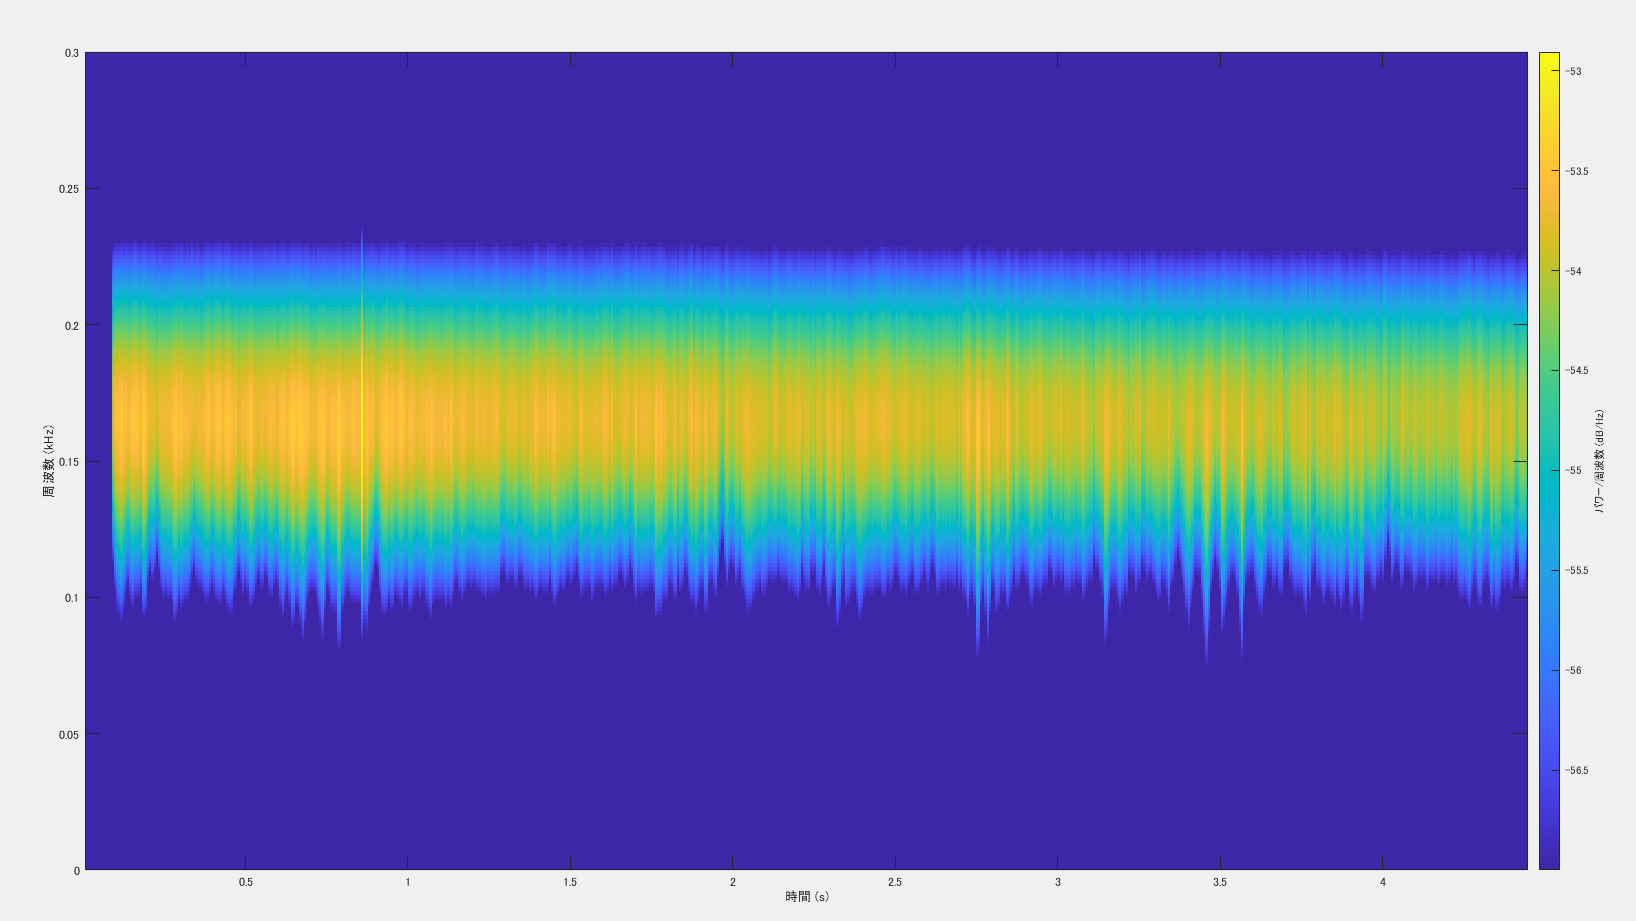
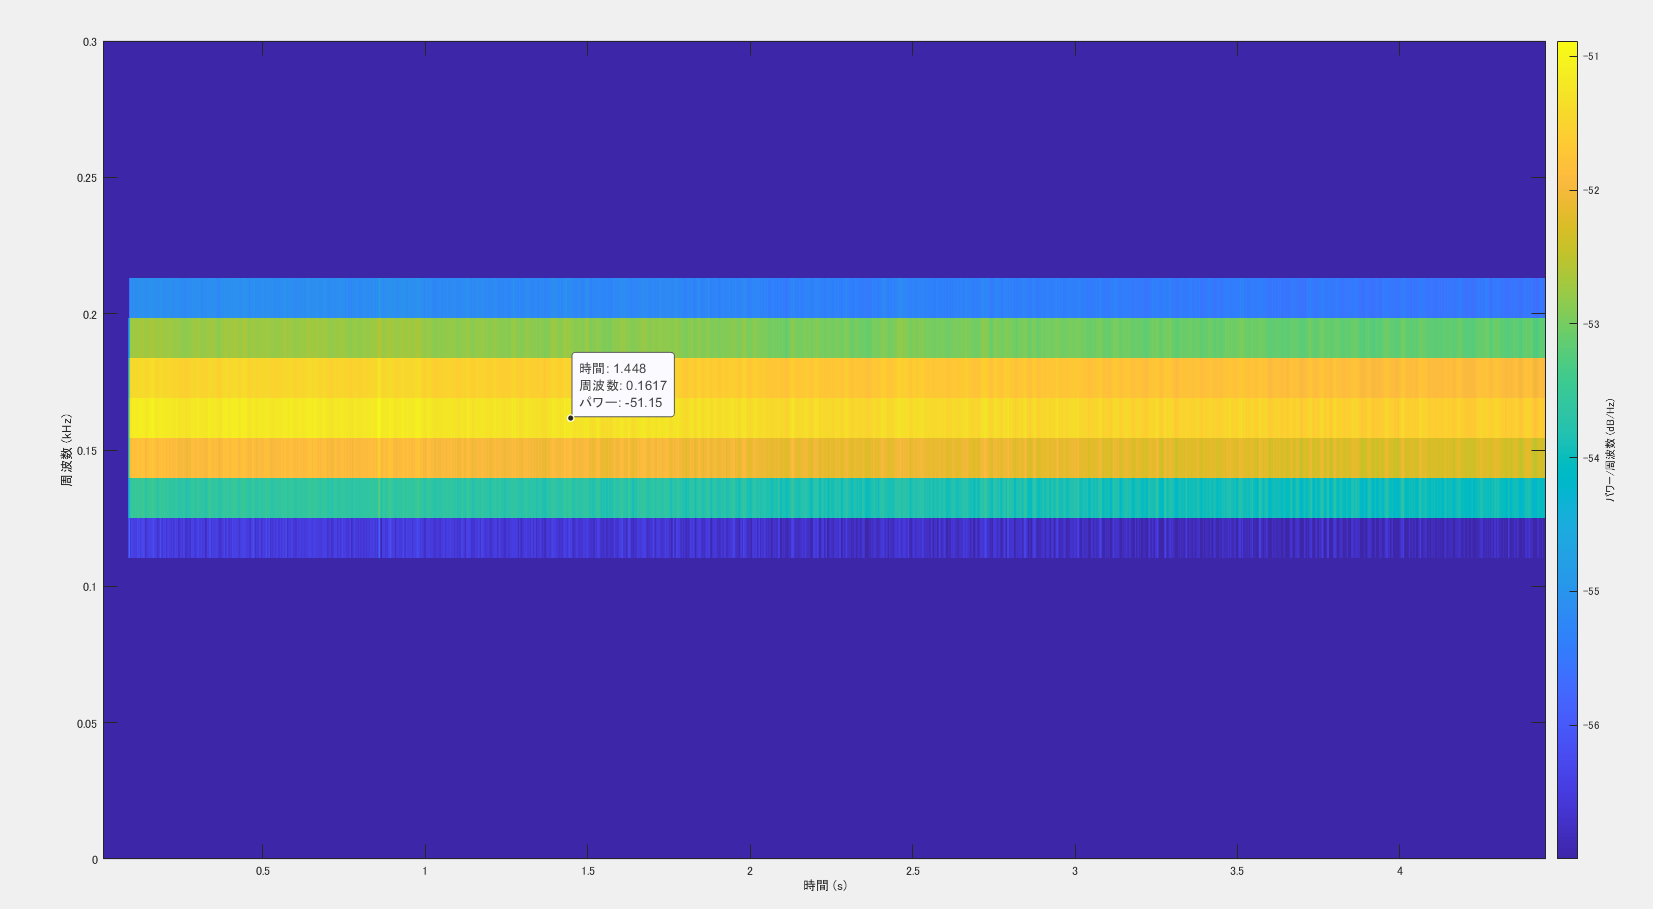
FFT size=50000

diff --git a/FFT_test3.m b/FFT_test3.m
@@ -4,22 +4,22 @@ clear;
 %[y,fs] = audioread('kakikukeko_E.wav');
 %[y,fs] = audioread('E3-165Hz.wav');
 
-SNR = 70;   %aiueoは57 70が最適
+SNR = 57;   %aiueoは57 70が最適
 
-pspectrum(y,fs,'spectrogram','FrequencyLimits',[0 22500]);
+%pspectrum(y,fs,'spectrogram','FrequencyLimits',[0 22500]);
 %spectrumに時間変化を加えるとspectrogram
 %spectrogram(y, kaiser(256,5),250,1024,fs,'yaxis');     %参考の初期　きめ細かく良き
 
 
 %spectrogram(y, kaiser(800,5),750,3000,fs,'yaxis'); %基本的なパワースペクトル
-%spectrogram(y, kaiser(800,5),750,3000,fs,'MinThreshold',-SNR,'yaxis');    %-SNRdB以下をゼロとする　
+spectrogram(y, kaiser(800,5),750,50000,fs,'MinThreshold',-SNR,'yaxis');    %-SNRdB以下をゼロとする　
 %------------------------------------------------------------------
 %窓関数のウィンドウ長さを大きくすると周波数ごとの違いがハッキリする
 %ウィンド長とオーバーラップが近いと全体が高精細になる
 %形状パラメータを大きくすると時間の精細度が上がるが周波数分解度が低下する
 %第4引数はFFTのサイズを示し高くすると高精度な周波数が分かる10000を超えるとパソコン落ちる
 %------------------------------------------------------------------
-ylim([0 2])  %縦軸指定 E3=165なのでその範囲が拡大されて見れる値0～0.3を指定
+ylim([0 0.3])  %縦軸指定 E3=165なのでその範囲が拡大されて見れる値0～0.3を指定
 
 %view(-45,65)   %斜め上から3D表示
 
